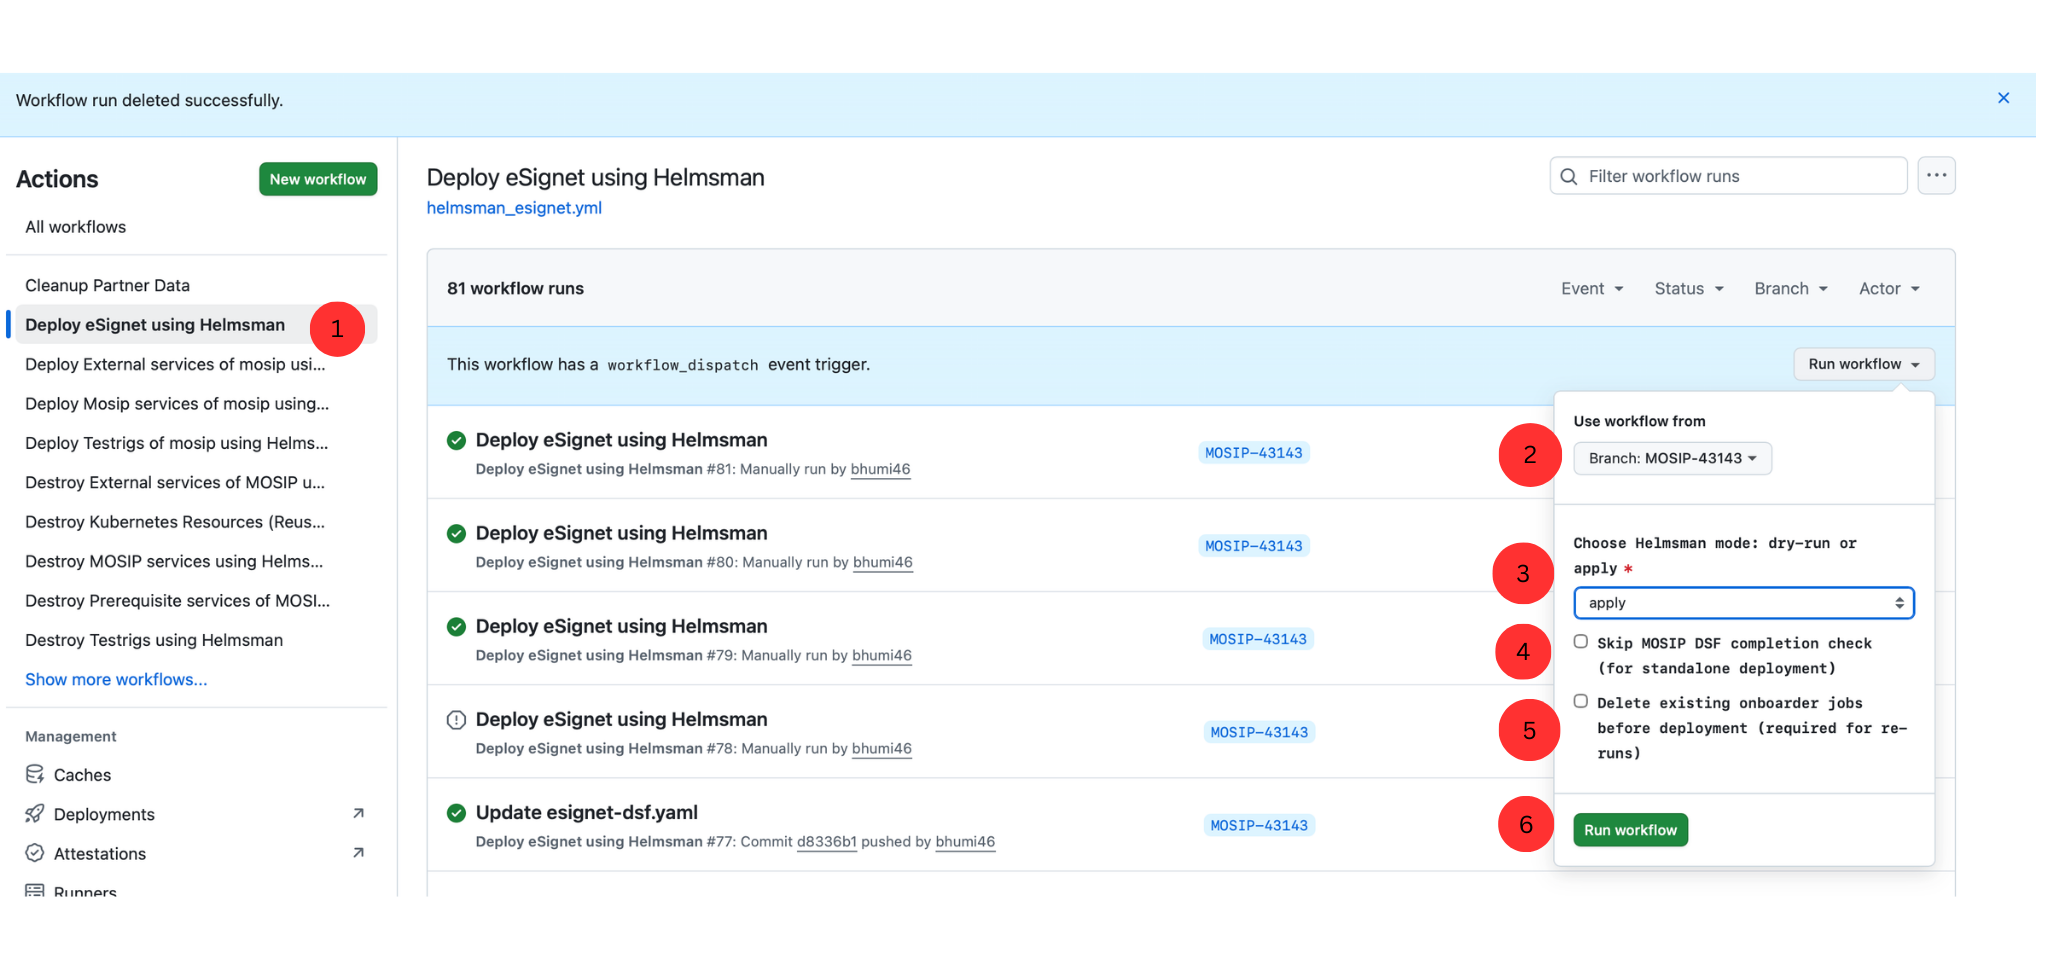
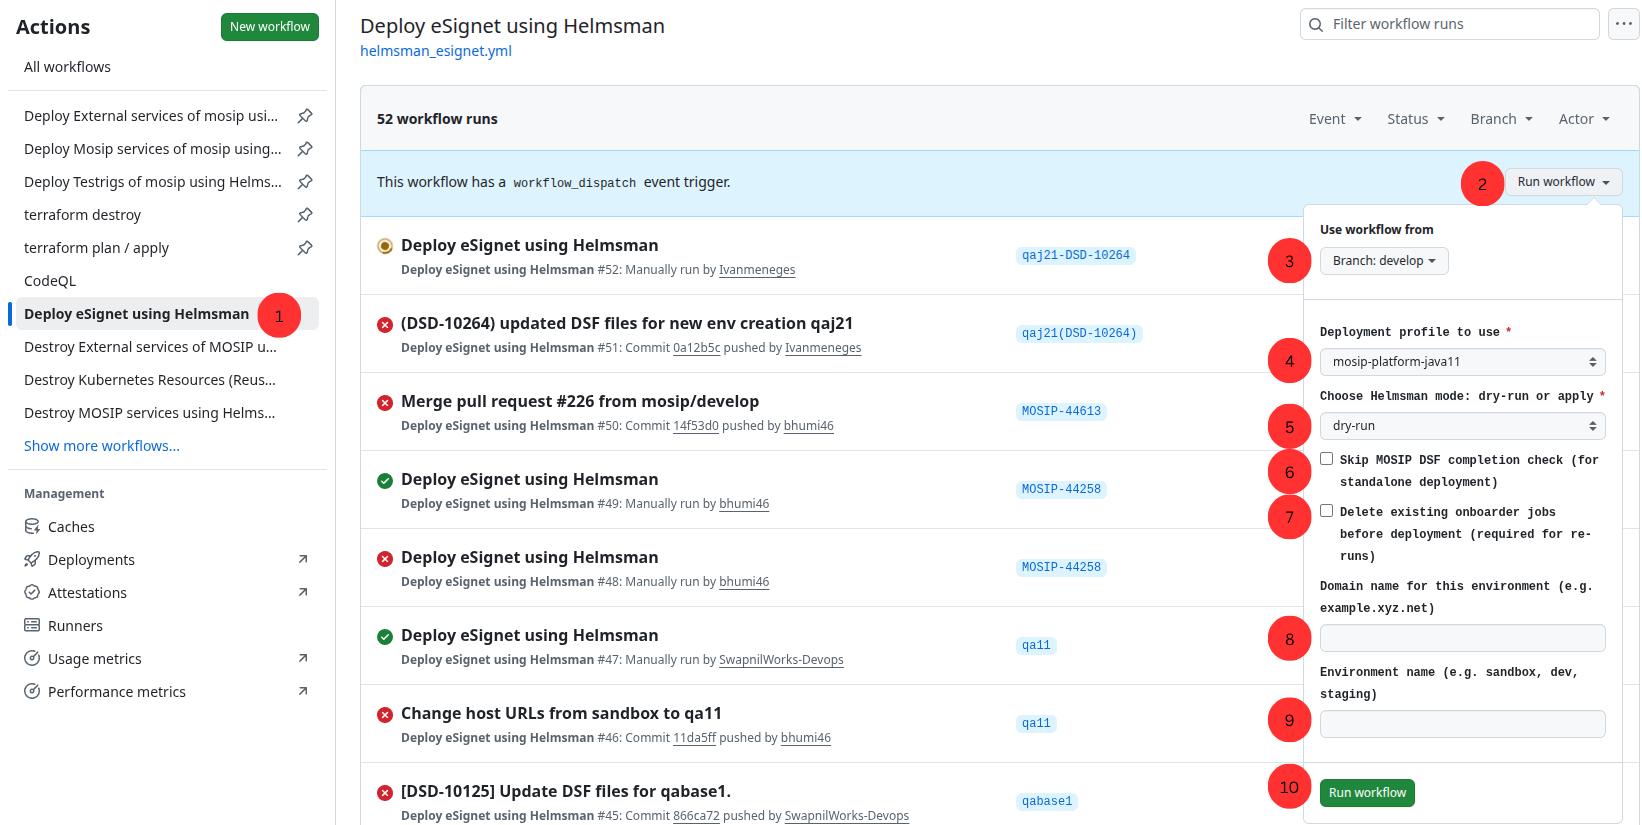
[MOSIP-44628] Updated documentation and flow diagram for

diff --git a/README.md b/README.md
@@ -855,7 +855,7 @@ After updating `aws.tfvars`, deploy or update your main infra cluster:
 - **(3)** **Branch**: Select your deployment branch (e.g., `release-0.1.0`)
 - **(4)** **Cloud Provider**: Select `aws` (Azure/GCP are placeholder implementations)
 - **(5)** **Component**: Select `infra` (MOSIP application infrastructure)
-- **(6)** **Profile**: Select `esignet`/`mosip` (Select profile which you want to use for deployment)
+- **(6)** **Profile**: Select `mosip`/`esignet` (Select profile which you want to use for deployment)
 - **Backend**: Choose backend configuration:
   - **(7)** `local` - GPG-encrypted local state (recommended for development)
   - **(8)** `s3` - Remote S3 backend (If you want to store the state file in a S3 bucket, provide the bucket name. Otherwise, leave it empty to use the local backend)
@@ -1329,17 +1329,23 @@ The Helmsman deployment process follows a specific sequence with automated trigg
 
 ![Deploy External Services - Helmsman](docs/_images/helmsman-external-services.png)
 
-- **(1)** Actions → **"Deploy External services of mosip using Helmsman"** (or "Helmsman External Dependencies")
+- **(1)** Actions → **"Deploy External services of mosip using Helmsman"**
   - **Can't find it?** Search for "External" in the workflows list
-- **(2)** **Select Run workflow**
-- **(3)** **Select Branch**
+- **(2)** Click **Run workflow** button in the top right corner
+- **(3)** **Branch**: Select your deployment branch (e.g., `develop`)
+- **(4)** **Deployment profile to use**: `mosip-platform-java11` (or other appropriate profile)
+- **(5)** **Choose Helmsman mode**: `apply` (dry-run will fail due to namespace dependencies)
+- **(6)** **Domain name for this environment**: Enter the domain name (e.g., `example.xyz.net`)
+- **(7)** **Environment name**: Enter the environment name (e.g., `sandbox`, `dev`, `staging`)
+- **(8)** **Slack channel name for alerting** (optional): e.g., `#mosip-alerts`
+- **(9)** **Slack webhook URL for alerting** (optional)
+- **(10)** **Rancher cluster ID for rancher-monitoring**: e.g., `c-xxxxx`
+- **(11)** Click **Run workflow** green button
 - This workflow handles both deployments in parallel:
   - **Prerequisites**: `prereq-dsf.yaml` (monitoring, Istio, logging)
   - **External Dependencies**: `external-dsf.yaml` (databases, message queues, storage)
-- **(4)** **Mode**: `apply` (required - dry-run will fail!)
-  - **Important:** DO NOT select dry-run mode for Helmsman
-  - **Time required:** 20-40 minutes
-  - **Automatic Trigger**: Upon successful completion, this workflow automatically triggers the MOSIP services deployment
+- **Time required:** 20-40 minutes
+- **Automatic Trigger**: Upon successful completion, this workflow automatically triggers the MOSIP services deployment
 
  **What You Should See:**
 
@@ -1356,7 +1362,7 @@ The Helmsman deployment process follows a specific sequence with automated trigg
 - **Automatically triggered** after successful completion of step 1
 - Workflow: **Deploy MOSIP services using Helmsman** (`helmsman_mosip.yml`)
 - DSF file: `mosip-dsf.yaml`
-- Mode: `apply` (required - dry-run will fail due to namespace dependencies)
+- Mode: `apply` (dry-run will fail due to namespace dependencies)
 
  **Error Handling:**
 
@@ -1394,19 +1400,23 @@ The Helmsman deployment process follows a specific sequence with automated trigg
 
 - **Prerequisites**: All MOSIP core services must be running, partner onboarding completed successfully and secrets required for esignet should be updated.
 - **(1)** Actions → **Deploy eSignet using Helmsman** (`helmsman_esignet.yml`)
-- **(2)** **Select Branch**
-- **(3)** **Mode**: `apply` (required - dry-run will fail due to namespace dependencies)
-- **(4)** **Additional Options** (optional):
+- **(2)** Click **Run workflow** button in the top right corner
+- **(3)** **Select Branch**
+- **(4)** **Select Profile**: `mosip-platform-java11` or `mosip-platform-java21` or `esignet` or any other profile you want to deploy for
+- **(5)** **Mode**: `apply` (dry-run will fail due to namespace dependencies)
+- **(6)** **Additional Options** (optional):
   - **skip_mosip_dsf_check**: ☐ Unchecked by default
     - **When to enable (✅)**: Standalone eSignet deployment without full MOSIP stack
     - **What it does**: Bypasses validation check for MOSIP core services completion
     - **Use case**: Testing eSignet independently or deploying eSignet to a separate cluster
-  - **(5)** **delete_existing_jobs**: ☐ Unchecked by default
+  - **(7)** **delete_existing_jobs**: ☐ Unchecked by default
     - **When to enable (✅)**: Re-running eSignet deployment after a previous failed attempt
     - **What it does**: Removes existing partner onboarder jobs before creating new ones
     - **Use case**: Cleanup before retry deployment to avoid "job already exists" errors
     - **Important**: Only enable this on re-runs, not on first deployment
-- **(6)** **Run Workflow**:    
+- **(8)** **Domain name**: Enter the domain name for this environment (e.g., `example.xyz.net`)
+- **(9)** **Environment name**: Enter the environment name (e.g., `sandbox`, `dev`, `staging`)
+- **(10)** **Run Workflow**   
 - **Time required:** 15-25 minutes
 
  **What You Should See:**
@@ -1435,9 +1445,15 @@ The Helmsman deployment process follows a specific sequence with automated trigg
 
 - **Prerequisites**: All pods from steps 1-2 must be in `Running` state and onboarding completed successfully
 - **(1)** Actions → **Deploy Testrigs of mosip using Helmsman** (`helmsman_testrigs.yml`)
-- **(2)** workflow - **select Run workflow in right side**
-- **(3)** Branch - **Select Branch**
-- **(4)** Mode: `apply` (required - dry-run will fail due to namespace dependencies)
+- **(2)** Click **Run workflow** button in the top right corner
+- **(3)** **Branch**: Select your deployment branch (e.g., `develop`)
+- **(4)** **Choose MOSIP platform profile**: `mosip-platform-java11` (or other appropriate profile)
+- **(5)** **Choose Helmsman mode**: `apply` (dry-run will fail due to namespace dependencies)
+- **(6)** **Domain name for this environment**: Enter the domain name (e.g., `example.xyz.net`)
+- **(7)** **Environment name**: Enter the environment name (e.g., `sandbox`, `dev`, `staging`)
+- **(8)** **Slack channel name for alerting** (optional): e.g., `#mosip-alerts`
+- **(9)** **Slack webhook URL for alerting** (optional)
+- **(10)** Click **Run workflow** green button
 
 **Post-Deployment Steps:**
 

diff --git a/docs/ENVIRONMENT_DESTRUCTION_GUIDE.md b/docs/ENVIRONMENT_DESTRUCTION_GUIDE.md
@@ -45,7 +45,7 @@ Parameters:
 ├─ Branch: release-0.1.0 (or your deployment branch)
 ├─ Cloud Provider: aws
 ├─ Component: infra
-├─ Profile: esignet/mosip
+├─ Profile: mosip/esignet
 └─ Backend: local (or s3, match your deployment configuration)
 ```
 
@@ -408,7 +408,7 @@ kubectl get namespaces | grep -E "cattle|istio"
  - Branch: release-0.1.0 (your deployment branch)
  - Cloud Provider: aws
  - Component: infra
- - Profile: esignet/mosip
+ - Profile: mosip/esignet
  - Backend: local (or s3, match your deployment)
  ```
 